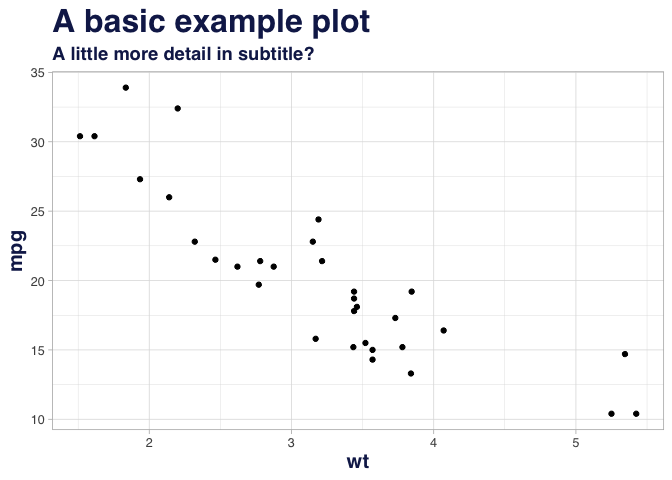
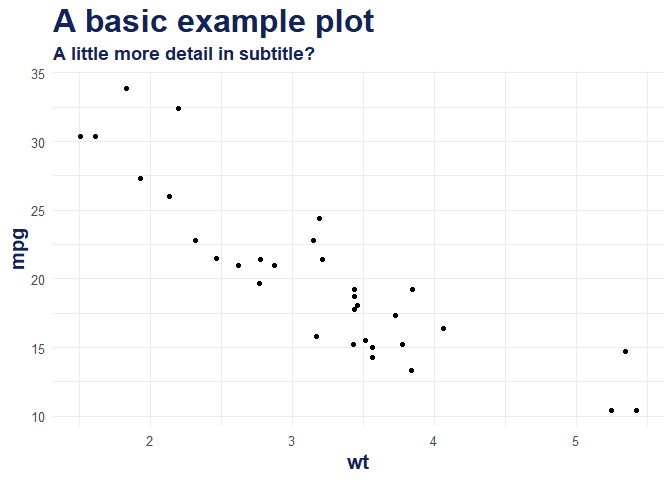
format changes

diff --git a/inst/rmarkdown/templates/leary_presentation/skeleton/css/leary-theme.css b/inst/rmarkdown/templates/leary_presentation/skeleton/css/leary-theme.css
@@ -1,7 +1,7 @@
 /*
 #132257 - Spurs Blue
 #2e2e2e - Dark Grey
-#04b8a6 - Green color (spurs Amsterdam 3rd kit)
+#04b8a6 - Green color (Spurs Amsterdam 3rd kit)
 #FFFFFF - White
 */
 

diff --git a/README.md b/README.md
@@ -41,6 +41,59 @@ ggplot(mtcars, aes(wt, mpg)) +
      labs(title = "A basic example plot",
           subtitle = "A little more detail in subtitle?") +
      theme_leary()
+#> Warning in grid.Call(C_stringMetric, as.graphicsAnnot(x$label)): font family not
+#> found in Windows font database
+
+#> Warning in grid.Call(C_stringMetric, as.graphicsAnnot(x$label)): font family not
+#> found in Windows font database
+
+#> Warning in grid.Call(C_stringMetric, as.graphicsAnnot(x$label)): font family not
+#> found in Windows font database
+
+#> Warning in grid.Call(C_stringMetric, as.graphicsAnnot(x$label)): font family not
+#> found in Windows font database
+#> Warning in grid.Call(C_textBounds, as.graphicsAnnot(x$label), x$x, x$y, : font
+#> family not found in Windows font database
+
+#> Warning in grid.Call(C_textBounds, as.graphicsAnnot(x$label), x$x, x$y, : font
+#> family not found in Windows font database
+
+#> Warning in grid.Call(C_textBounds, as.graphicsAnnot(x$label), x$x, x$y, : font
+#> family not found in Windows font database
+
+#> Warning in grid.Call(C_textBounds, as.graphicsAnnot(x$label), x$x, x$y, : font
+#> family not found in Windows font database
+
+#> Warning in grid.Call(C_textBounds, as.graphicsAnnot(x$label), x$x, x$y, : font
+#> family not found in Windows font database
+
+#> Warning in grid.Call(C_textBounds, as.graphicsAnnot(x$label), x$x, x$y, : font
+#> family not found in Windows font database
+
+#> Warning in grid.Call(C_textBounds, as.graphicsAnnot(x$label), x$x, x$y, : font
+#> family not found in Windows font database
+
+#> Warning in grid.Call(C_textBounds, as.graphicsAnnot(x$label), x$x, x$y, : font
+#> family not found in Windows font database
+
+#> Warning in grid.Call(C_textBounds, as.graphicsAnnot(x$label), x$x, x$y, : font
+#> family not found in Windows font database
+
+#> Warning in grid.Call(C_textBounds, as.graphicsAnnot(x$label), x$x, x$y, : font
+#> family not found in Windows font database
+
+#> Warning in grid.Call(C_textBounds, as.graphicsAnnot(x$label), x$x, x$y, : font
+#> family not found in Windows font database
+
+#> Warning in grid.Call(C_textBounds, as.graphicsAnnot(x$label), x$x, x$y, : font
+#> family not found in Windows font database
+#> Warning in grid.Call.graphics(C_text, as.graphicsAnnot(x$label), x$x, x$y, :
+#> font family not found in Windows font database
+#> Warning in grid.Call(C_textBounds, as.graphicsAnnot(x$label), x$x, x$y, : font
+#> family not found in Windows font database
+
+#> Warning in grid.Call(C_textBounds, as.graphicsAnnot(x$label), x$x, x$y, : font
+#> family not found in Windows font database
 ```
 
 <img src="man/figures/README-example1-1.png" width="70%" />
@@ -54,35 +107,6 @@ see_pkg_funcs(learylib)
 #> [1] "leary_html"      "not_in"          "see_lib_paths"   "see_pkg_funcs"  
 #> [5] "theme_leary"     "update_rprofile"
 ```
-
-## Resources used
-
-Shout out to Hadley Wickham, Jenny Bryan, Jim Hester, and the many other
-developers building R packages that help people build R packages. I
-would not have gotten this far without those tools to make the process
-simple. I created the initial version of this package in a matter of
-days, with limited experience in package development. If I can do it,
-others can as well. And it was fun\! In case anyone sees this who is
-considering building their own package, here are some resources I found
-helpful. Also for me when I forget where I found something.
-
-  - [R packages](%22http://r-pkgs.had.co.nz%22) by Hadley Wickham - He
-    wrote the book on writing R packages (literally)
-
-  - R Package Documentation (built with `pkgdown`)
-    
-      - [usethis](https://usethis.r-lib.org) for package development.
-      - [devtools](https://devtools.r-lib.org) for package development.
-      - [pkgdown](https://pkgdown.r-lib.org) easily create a website for
-        your package & documentation
-
-  - Blogs
-    
-      - [Writing an R package
-        fromScratch](https://hilaryparker.com/2014/04/29/writing-an-r-package-from-scratch/)
-        by Hilary Parker - Great resource I have gone back to many
-        times. Helped me greatly the first time I looked into package
-        development and I still Google to find this exact blog.
 
 ## Contributions
 
